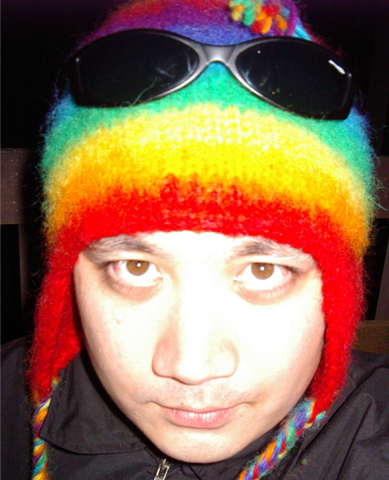
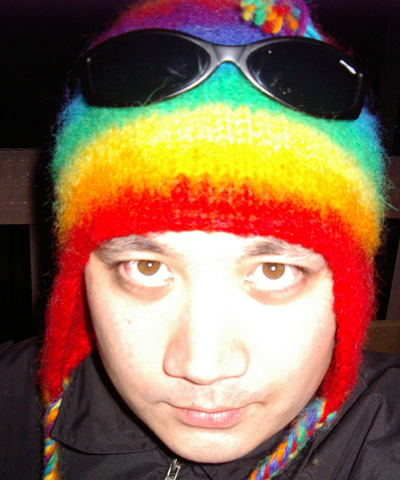
UPdated with cover graphic

diff --git a/index.html b/index.html
@@ -6,194 +6,206 @@ title:    Identity Brief
 
 <div class="grid_10  push_1" id="">
 	<ul id="top-flip">
-	  {% assign index_class = 'one' %}
-	  {% assign description = 'Fusce dapibus, tellus ac cursus commodo, tortor mauris condimentum nibh, ut fermentum massa justo sit amet risus. Fusce dapibus, tellus ac cursus commodo, tortor mauris condimentum nibh, ut fermentum massa justo sit amet risus. Donec ullamcorper nulla non metus auctor fringilla. Aenean lacinia bibendum nulla sed consectetur. ' %}		
+		{% assign index_class = "cover" %}
+	  {% assign description = "cover" %}		
+	  {% include slice.html %}
+		
+	  {% assign index_class = "one" %}
+	  {% assign description = "Self Portrait, Reservoir (2011)" %}		
 	  {% include slice.html %}
 
-	  {% assign index_class = 'two' %}
-	  {% assign description = 'Donec sed odio dui. Nullam id dolor id nibh ultricies vehicula ut id elit. Sed posuere consectetur est at lobortis. Aenean lacinia bibendum nulla sed consectetur. Sed posuere consectetur est at lobortis. Sed posuere consectetur est at lobortis. ' %}		
+	  {% assign index_class = "two" %}
+	  {% assign description = "Self Portrait, Docklands (2010) " %}		
 	  {% include slice.html %}
 
-	  {% assign index_class = 'three' %}
-	  {% assign description = 'Lorem ipsum dolor sit amet, consectetur adipiscing elit. Morbi leo risus, porta ac consectetur ac, vestibulum at eros. Nulla vitae elit libero, a pharetra augue. Cum sociis natoque penatibus et magnis dis parturient montes, nascetur ridiculus mus. ' %}		
+	  {% assign index_class = "three" %}
+	  {% assign description = "Lorem ipsum dolor sit amet, consectetur adipiscing elit. Morbi leo risus, porta ac consectetur ac, vestibulum at eros. Nulla vitae elit libero, a pharetra augue. Cum sociis natoque penatibus et magnis dis parturient montes, nascetur ridiculus mus." %}		
 	  {% include slice.html %}
-	  {% assign index_class = 'four' %}
-	  {% assign description = 'Fusce dapibus, tellus ac cursus commodo, tortor mauris condimentum nibh, ut fermentum massa justo sit amet risus. Fusce dapibus, tellus ac cursus commodo, tortor mauris condimentum nibh, ut fermentum massa justo sit amet risus. Donec ullamcorper nulla non metus auctor fringilla. Aenean lacinia bibendum nulla sed consectetur. ' %}		
-	  {% include slice.html %}
-
-	  {% assign index_class = 'five' %}
-	  {% assign description = 'Donec sed odio dui. Nullam id dolor id nibh ultricies vehicula ut id elit. Sed posuere consectetur est at lobortis. Aenean lacinia bibendum nulla sed consectetur. Sed posuere consectetur est at lobortis. Sed posuere consectetur est at lobortis. ' %}		
+	  {% assign index_class = "four" %}
+	  {% assign description = "Fusce dapibus, tellus ac cursus commodo, tortor mauris condimentum nibh, ut fermentum massa justo sit ullamcorper nulla non metus auctor fringilla. Aenean lacinia bibendum nulla sed consectetur. " %}		
 	  {% include slice.html %}
 
-	  {% assign index_class = 'six' %}
-	  {% assign description = 'Lorem ipsum dolor sit amet, consectetur adipiscing elit. Morbi leo risus, porta ac consectetur ac, vestibulum at eros. Nulla vitae elit libero, a pharetra augue. Cum sociis natoque penatibus et magnis dis parturient montes, nascetur ridiculus mus. ' %}		
+	  {% assign index_class = "five" %}
+	  {% assign description = "Donec sed odio dui. Nullam id dolor id nibh ultricies vehicula ut id elit. Sed posuere consectetur est at lobortis. " %}		
+	  {% include slice.html %}
+
+	  {% assign index_class = "six" %}
+	  {% assign description = "Lorem ipsum dolor sit amet, consectetur adipiscing elit. Morbi leo risus, porta ac consectetur ac, vestibulum at eros. Nulla vitae elit libero, a pharetra augue. Cum sociis natoque penatibus et magnis dis parturient montes, nascetur ridiculus mus. " %}		
 	  {% include slice.html %}	
-	  {% assign index_class = 'seven' %}
-	  {% assign description = 'Fusce dapibus, tellus ac cursus commodo, tortor mauris condimentum nibh, ut fermentum massa justo sit amet risus. Fusce dapibus, tellus ac cursus commodo, tortor mauris condimentum nibh, ut fermentum massa justo sit amet risus. Donec ullamcorper nulla non metus auctor fringilla. Aenean lacinia bibendum nulla sed consectetur. ' %}		
+	  {% assign index_class = "seven" %}
+	  {% assign description = "Fusce dapibus, tellus ac cursus commodo, tortor mauris condimentum nibh, ut fermentum massa justo sit ullamcorper nulla non metus auctor fringilla. Aenean lacinia bibendum nulla sed consectetur. " %}		
 	  {% include slice.html %}
 
-	  {% assign index_class = 'eight' %}
-	  {% assign description = 'Donec sed odio dui. Nullam id dolor id nibh ultricies vehicula ut id elit. Sed posuere consectetur est at lobortis. Aenean lacinia bibendum nulla sed consectetur. Sed posuere consectetur est at lobortis. Sed posuere consectetur est at lobortis. ' %}		
+	  {% assign index_class = "eight" %}
+	  {% assign description = "Donec sed odio dui. Nullam id dolor id nibh ultricies vehicula ut id elit. Sed posuere consectetur est at lobortis. " %}		
 	  {% include slice.html %}
 
-	  {% assign index_class = 'nine' %}
-	  {% assign description = 'Lorem ipsum dolor sit amet, consectetur adipiscing elit. Morbi leo risus, porta ac consectetur ac, vestibulum at eros. Nulla vitae elit libero, a pharetra augue. Cum sociis natoque penatibus et magnis dis parturient montes, nascetur ridiculus mus. ' %}		
+	  {% assign index_class = "nine" %}
+	  {% assign description = "Lorem ipsum dolor sit amet, consectetur adipiscing elit. Morbi leo risus, porta ac consectetur ac, ridiculus mus. " %}		
 	  {% include slice.html %}
-	  {% assign index_class = 'ten' %}
-	  {% assign description = 'Fusce dapibus, tellus ac cursus commodo, tortor mauris condimentum nibh, ut fermentum massa justo sit amet risus. Fusce dapibus, tellus ac cursus commodo, tortor mauris condimentum nibh, ut fermentum massa justo sit amet risus. Donec ullamcorper nulla non metus auctor fringilla. Aenean lacinia bibendum nulla sed consectetur. ' %}		
-	  {% include slice.html %}
-
-	  {% assign index_class = 'eleven' %}
-	  {% assign description = 'Donec sed odio dui. Nullam id dolor id nibh ultricies vehicula ut id elit. Sed posuere consectetur est at lobortis. Aenean lacinia bibendum nulla sed consectetur. Sed posuere consectetur est at lobortis. Sed posuere consectetur est at lobortis. ' %}		
+	  {% assign index_class = "ten" %}
+	  {% assign description = "Fusce dapibus, tellus ac cursus commodo, tortor mauris condimentum nibh, ut fermentum massa justo sit ullamcorper nulla non metus auctor fringilla. Aenean lacinia bibendum nulla sed consectetur. " %}		
 	  {% include slice.html %}
 
-	  {% assign index_class = 'twelve' %}
-	  {% assign description = 'Lorem ipsum dolor sit amet, consectetur adipiscing elit. Morbi leo risus, porta ac consectetur ac, vestibulum at eros. Nulla vitae elit libero, a pharetra augue. Cum sociis natoque penatibus et magnis dis parturient montes, nascetur ridiculus mus. ' %}		
-	  {% include slice.html %}
-	  {% assign index_class = 'thirteen' %}
-	  {% assign description = 'Fusce dapibus, tellus ac cursus commodo, tortor mauris condimentum nibh, ut fermentum massa justo sit amet risus. Fusce dapibus, tellus ac cursus commodo, tortor mauris condimentum nibh, ut fermentum massa justo sit amet risus. Donec ullamcorper nulla non metus auctor fringilla. Aenean lacinia bibendum nulla sed consectetur. ' %}		
+	  {% assign index_class = "eleven" %}
+	  {% assign description = "Donec sed odio dui. Nullam id dolor id nibh ultricies vehicula ut id elit. Sed posuere consectetur est at lobortis. Aenean lacinia bibendum nulla sed consectetur. Sed posuere consectetur est at lobortis. Sed posuere consectetur est at lobortis. " %}		
 	  {% include slice.html %}
 
-	  {% assign index_class = 'fourteen' %}
-	  {% assign description = 'Donec sed odio dui. Nullam id dolor id nibh ultricies vehicula ut id elit. Sed posuere consectetur est at lobortis. Aenean lacinia bibendum nulla sed consectetur. Sed posuere consectetur est at lobortis. Sed posuere consectetur est at lobortis. ' %}		
+	  {% assign index_class = "twelve" %}
+	  {% assign description = "Lorem ipsum dolor sit amet, consectetur adipiscing elit. Morbi leo risus, porta ac consectetur ac, vestibulum at eros. Nulla vitae elit libero, a pharetra augue. Cum sociis natoque penatibus et magnis dis parturient montes, nascetur ridiculus mus. " %}		
+	  {% include slice.html %}
+	  {% assign index_class = "thirteen" %}
+	  {% assign description = "Fusce dapibus, tellus ac cursus commodo, tortor mauris condimentum nibh, ut fermentum massa justo sit ullamcorper nulla non metus auctor fringilla. Aenean lacinia bibendum nulla sed consectetur. " %}		
 	  {% include slice.html %}
 
-	  {% assign index_class = 'fifteen' %}
-	  {% assign description = 'Lorem ipsum dolor sit amet, consectetur adipiscing elit. Morbi leo risus, porta ac consectetur ac, vestibulum at eros. Nulla vitae elit libero, a pharetra augue. Cum sociis natoque penatibus et magnis dis parturient montes, nascetur ridiculus mus. ' %}		
+	  {% assign index_class = "fourteen" %}
+	  {% assign description = "Donec sed odio dui. Nullam id dolor id nibh ultricies vehicula ut id elit. Sed posuere consectetur est at lobortis. Aenean lacinia bibendum nulla sed consectetur. Sed posuere consectetur est at lobortis. Sed posuere consectetur est at lobortis. " %}		
+	  {% include slice.html %}
+
+	  {% assign index_class = "fifteen" %}
+	  {% assign description = "Lorem ipsum dolor sit amet, consectetur adipiscing elit. Morbi leo risus, porta ac consectetur ac, ridiculus mus. " %}		
 	  {% include slice.html %}	
 	
-	  {% assign index_class = 'sixteen' %}
-	  {% assign description = 'Lorem ipsum dolor sit amet, consectetur adipiscing elit. Morbi leo risus, porta ac consectetur ac, vestibulum at eros. Nulla vitae elit libero, a pharetra augue. Cum sociis natoque penatibus et magnis dis parturient montes, nascetur ridiculus mus. ' %}		
+	  {% assign index_class = "sixteen" %}
+	  {% assign description = "Lorem ipsum dolor sit amet, consectetur adipiscing elit. Morbi leo risus, porta ac consectetur ac, vestibulum at eros. Nulla vitae elit libero, a pharetra augue. Cum sociis natoque penatibus et magnis dis parturient montes, nascetur ridiculus mus. " %}		
 	  {% include slice.html %}	
 	</ul>
 	
 	<ul id="middle-flip">
-	  {% assign index_class = 'one' %}
-	  {% assign description = 'Praesent commodo cursus magna, vel scelerisque nisl consectetur et. Nullam quis risus eget urna mollis ornare vel eu leo. Cras justo odio, dapibus ac facilisis in, egestas eget quam. Nulla vitae elit libero, a pharetra augue.' %}		
+		{% assign index_class = "cover" %}
+	  {% assign description = "cover" %}				
+	  {% include slice.html %}
+			
+	  {% assign index_class = "one" %}
+	  {% assign description = "One of a collection of photos I took to use for a new online avatar—despite a life online, the first time I'd ever used an actual image of myself rather than an illustration." %}		
 	  {% include slice.html %}
 
-	  {% assign index_class = 'two' %}
-	  {% assign description = 'Vivamus sagittis lacus vel augue laoreet rutrum faucibus dolor auctor. Integer posuere erat a ante venenatis dapibus posuere velit aliquet. Duis mollis, est non commodo luctus, nisi erat porttitor ligula, eget lacinia odio sem nec elit. Morbi leo risus, porta ac consectetur ac, vestibulum at eros. Nullam quis risus eget urna mollis ornare vel eu leo. Sed posuere consectetur est at lobortis.' %}		
+	  {% assign index_class = "two" %}
+	  {% assign description = "Vivamus sagittis lacus vel augue laoreet rutrum faucibus dolor auctor. Integer posuere erat a ante consectetur est at lobortis." %}		
 	  {% include slice.html %}
 
-	  {% assign index_class = 'three' %}
-	  {% assign description = 'Morbi leo risus, porta ac consectetur ac, vestibulum at eros. Aenean lacinia bibendum nulla sed consectetur. Curabitur blandit tempus porttitor. Praesent commodo cursus magna, vel scelerisque nisl consectetur et.' %}		
+	  {% assign index_class = "three" %}
+	  {% assign description = "Morbi leo risus, porta ac consectetur ac, vestibulum at eros. Aenean lacinia bibendum nulla sed consectetur. Curabitur blandit tempus porttitor. Praesent commodo cursus magna, vel scelerisque nisl consectetur et." %}		
 	  {% include slice.html %}		
-	  {% assign index_class = 'four' %}
-	  {% assign description = 'Praesent commodo cursus magna, vel scelerisque nisl consectetur et. Nullam quis risus eget urna mollis ornare vel eu leo. Cras justo odio, dapibus ac facilisis in, egestas eget quam. Nulla vitae elit libero, a pharetra augue.' %}		
+	  {% assign index_class = "four" %}
+	  {% assign description = "Praesent commodo cursus magna, vel scelerisque nisl consectetur et. Nullam quis risus eget urna mollis ornare vel eu leo. Cras justo odio, dapibus ac facilisis in, egestas eget quam. Nulla vitae elit libero, a pharetra augue." %}		
 	  {% include slice.html %}
 
-	  {% assign index_class = 'five' %}
-	  {% assign description = 'Vivamus sagittis lacus vel augue laoreet rutrum faucibus dolor auctor. Integer posuere erat a ante venenatis dapibus posuere velit aliquet. Duis mollis, est non commodo luctus, nisi erat porttitor ligula, eget lacinia odio sem nec elit. Morbi leo risus, porta ac consectetur ac, vestibulum at eros. Nullam quis risus eget urna mollis ornare vel eu leo. Sed posuere consectetur est at lobortis.' %}		
+	  {% assign index_class = "five" %}
+	  {% assign description = "Vivamus sagittis lacus vel augue laoreet rutrum faucibus dolor auctor. Integer posuere erat a ante consectetur est at lobortis." %}		
 	  {% include slice.html %}
 
-	  {% assign index_class = 'six' %}
-	  {% assign description = 'Morbi leo risus, porta ac consectetur ac, vestibulum at eros. Aenean lacinia bibendum nulla sed consectetur. Curabitur blandit tempus porttitor. Praesent commodo cursus magna, vel scelerisque nisl consectetur et.' %}		
+	  {% assign index_class = "six" %}
+	  {% assign description = "Morbi leo risus, porta ac consectetur ac, vestibulum at eros. Aenean lacinia bibendum nulla sed consectetur. Curabitur blandit tempus porttitor. Praesent commodo cursus magna, vel scelerisque nisl consectetur et." %}		
 	  {% include slice.html %}
 	
-	  {% assign index_class = 'seven' %}
-	  {% assign description = 'Praesent commodo cursus magna, vel scelerisque nisl consectetur et. Nullam quis risus eget urna mollis ornare vel eu leo. Cras justo odio, dapibus ac facilisis in, egestas eget quam. Nulla vitae elit libero, a pharetra augue.' %}		
+	  {% assign index_class = "seven" %}
+	  {% assign description = "Praesent commodo cursus magna, vel scelerisque nisl consectetur et. Nullam quis risus eget urna mollis ornare vel eu leo. Cras justo odio, dapibus ac facilisis in, egestas eget quam. Nulla vitae elit libero, a pharetra augue." %}		
 	  {% include slice.html %}
 
-	  {% assign index_class = 'eight' %}
-	  {% assign description = 'Vivamus sagittis lacus vel augue laoreet rutrum faucibus dolor auctor. Integer posuere erat a ante venenatis dapibus posuere velit aliquet. Duis mollis, est non commodo luctus, nisi erat porttitor ligula, eget lacinia odio sem nec elit. Morbi leo risus, porta ac consectetur ac, vestibulum at eros. Nullam quis risus eget urna mollis ornare vel eu leo. Sed posuere consectetur est at lobortis.' %}		
+	  {% assign index_class = "eight" %}
+	  {% assign description = "Vivamus sagittis lacus vel augue laoreet rutrum faucibus dolor auctor. Integer posuere erat a ante consectetur est at lobortis." %}		
 	  {% include slice.html %}
 
-	  {% assign index_class = 'nine' %}
-	  {% assign description = 'Morbi leo risus, porta ac consectetur ac, vestibulum at eros. Aenean lacinia bibendum nulla sed consectetur. Curabitur blandit tempus porttitor. Praesent commodo cursus magna, vel scelerisque nisl consectetur et.' %}		
+	  {% assign index_class = "nine" %}
+	  {% assign description = "Morbi leo risus, porta ac consectetur ac, vestibulum at eros. Aenean lacinia bibendum nulla sed consectetur. Curabitur blandit tempus porttitor. Praesent commodo cursus magna, vel scelerisque nisl consectetur et." %}		
 	  {% include slice.html %}
-	  {% assign index_class = 'ten' %}
-	  {% assign description = 'Praesent commodo cursus magna, vel scelerisque nisl consectetur et. Nullam quis risus eget urna mollis ornare vel eu leo. Cras justo odio, dapibus ac facilisis in, egestas eget quam. Nulla vitae elit libero, a pharetra augue.' %}		
-	  {% include slice.html %}
-
-	  {% assign index_class = 'eleven' %}
-	  {% assign description = 'Vivamus sagittis lacus vel augue laoreet rutrum faucibus dolor auctor. Integer posuere erat a ante venenatis dapibus posuere velit aliquet. Duis mollis, est non commodo luctus, nisi erat porttitor ligula, eget lacinia odio sem nec elit. Morbi leo risus, porta ac consectetur ac, vestibulum at eros. Nullam quis risus eget urna mollis ornare vel eu leo. Sed posuere consectetur est at lobortis.' %}		
+	  {% assign index_class = "ten" %}
+	  {% assign description = "Praesent commodo cursus magna, vel scelerisque nisl consectetur et. Nullam quis risus eget urna mollis ornare vel eu leo. Cras justo odio, dapibus ac facilisis in, egestas eget quam. Nulla vitae elit libero, a pharetra augue." %}		
 	  {% include slice.html %}
 
-	  {% assign index_class = 'twelve' %}
-	  {% assign description = 'Morbi leo risus, porta ac consectetur ac, vestibulum at eros. Aenean lacinia bibendum nulla sed consectetur. Curabitur blandit tempus porttitor. Praesent commodo cursus magna, vel scelerisque nisl consectetur et.' %}		
+	  {% assign index_class = "eleven" %}
+	  {% assign description = "Vivamus sagittis lacus vel augue laoreet rutrum faucibus dolor auctor. Integer posuere erat a ante consectetur est at lobortis." %}		
+	  {% include slice.html %}
+
+	  {% assign index_class = "twelve" %}
+	  {% assign description = "Morbi leo risus, porta ac consectetur ac, vestibulum at eros. Aenean lacinia bibendum nulla sed consectetur. Curabitur blandit tempus porttitor. Praesent commodo cursus magna, vel scelerisque nisl consectetur et." %}		
 	  {% include slice.html %}
 	
-	  {% assign index_class = 'thirteen' %}
-	  {% assign description = 'Praesent commodo cursus magna, vel scelerisque nisl consectetur et. Nullam quis risus eget urna mollis ornare vel eu leo. Cras justo odio, dapibus ac facilisis in, egestas eget quam. Nulla vitae elit libero, a pharetra augue.' %}		
+	  {% assign index_class = "thirteen" %}
+	  {% assign description = "Praesent commodo cursus magna, vel scelerisque nisl consectetur et. Nullam quis risus eget urna mollis ornare vel eu leo. Cras justo odio, dapibus ac facilisis in, egestas eget quam. Nulla vitae elit libero, a pharetra augue." %}		
 	  {% include slice.html %}
 
-	  {% assign index_class = 'fourteen' %}
-	  {% assign description = 'Vivamus sagittis lacus vel augue laoreet rutrum faucibus dolor auctor. Integer posuere erat a ante venenatis dapibus posuere velit aliquet. Duis mollis, est non commodo luctus, nisi erat porttitor ligula, eget lacinia odio sem nec elit. Morbi leo risus, porta ac consectetur ac, vestibulum at eros. Nullam quis risus eget urna mollis ornare vel eu leo. Sed posuere consectetur est at lobortis.' %}		
+	  {% assign index_class = "fourteen" %}
+	  {% assign description = "Vivamus sagittis lacus vel augue laoreet rutrum faucibus dolor auctor. Integer posuere erat a ante consectetur est at lobortis." %}		
 	  {% include slice.html %}
 
-	  {% assign index_class = 'fifteen' %}
-	  {% assign description = 'Morbi leo risus, porta ac consectetur ac, vestibulum at eros. Aenean lacinia bibendum nulla sed consectetur. Curabitur blandit tempus porttitor. Praesent commodo cursus magna, vel scelerisque nisl consectetur et.' %}		
+	  {% assign index_class = "fifteen" %}
+	  {% assign description = "Morbi leo risus, porta ac consectetur ac, vestibulum at eros. Aenean lacinia bibendum nulla sed consectetur. Curabitur blandit tempus porttitor. Praesent commodo cursus magna, vel scelerisque nisl consectetur et." %}		
 	  {% include slice.html %}		
 
-	  {% assign index_class = 'sixteen' %}
-	  {% assign description = 'Morbi leo risus, porta ac consectetur ac, vestibulum at eros. Aenean lacinia bibendum nulla sed consectetur. Curabitur blandit tempus porttitor. Praesent commodo cursus magna, vel scelerisque nisl consectetur et.' %}		
+	  {% assign index_class = "sixteen" %}
+	  {% assign description = "Morbi leo risus, porta ac consectetur ac, vestibulum at eros. Aenean lacinia bibendum nulla sed consectetur. Curabitur blandit tempus porttitor. Praesent commodo cursus magna, vel scelerisque nisl consectetur et." %}		
 	  {% include slice.html %}		
 	
 	</ul>
 	<ul id="bottom-flip">
-	  {% assign index_class = 'one' %}
-	  {% assign description = 'Praesent commodo cursus magna, vel scelerisque nisl consectetur et. Donec sed odio dui. Duis mollis, est non commodo luctus, nisi erat porttitor ligula, eget lacinia odio sem nec elit. Etiam porta sem malesuada magna mollis euismod. Sed posuere consectetur est at lobortis.' %}		
+		{% assign index_class = "cover" %}
+	  {% assign description = "cover" %}			
+	  {% include slice.html %}
+		
+	  {% assign index_class = "one" %}
+	  {% assign description = "Praesent commodo cursus magna, vel scelerisque nisl consectetur et. Donec sed odio dui. Duis mollis, est posuere consectetur est at lobortis." %}		
 	  {% include slice.html %}
 
-	  {% assign index_class = 'two' %}
-	  {% assign description = 'Maecenas sed diam eget risus varius blandit sit amet non magna. Donec ullamcorper nulla non metus auctor fringilla. Aenean lacinia bibendum nulla sed consectetur. Cum sociis natoque penatibus et magnis dis parturient montes, nascetur ridiculus mus.' %}		
+	  {% assign index_class = "two" %}
+	  {% assign description = "Maecenas sed diam eget risus varius blandit sit amet non magna. Donec ullamcorper nulla non metus auctor ridiculus mus." %}		
 	  {% include slice.html %}
 
-	  {% assign index_class = 'three' %}
-	  {% assign description = 'Duis mollis, est non commodo luctus, nisi erat porttitor ligula, eget lacinia odio sem nec elit. Nullam quis risus eget urna mollis ornare vel eu leo.' %}		
+	  {% assign index_class = "three" %}
+	  {% assign description = "Duis mollis, est non commodo luctus, nisi erat porttitor ligula, eget lacinia odio sem nec elit. Nullam quis risus eget urna mollis ornare vel eu leo." %}		
 	  {% include slice.html %}
 	
-	  {% assign index_class = 'four' %}
-	  {% assign description = 'Morbi leo risus, porta ac consectetur ac, vestibulum at eros. Aenean lacinia bibendum nulla sed consectetur. Curabitur blandit tempus porttitor. Praesent commodo cursus magna, vel scelerisque nisl consectetur et.' %}		
+	  {% assign index_class = "four" %}
+	  {% assign description = "Morbi leo risus, porta ac consectetur ac, vestibulum at eros. Aenean lacinia bibendum nulla sed consectetur. Curabitur blandit tempus porttitor. Praesent commodo cursus magna, vel scelerisque nisl consectetur et." %}		
 	  {% include slice.html %}		
 	
-	  {% assign index_class = 'five' %}
-	  {% assign description = 'Praesent commodo cursus magna, vel scelerisque nisl consectetur et. Donec sed odio dui. Duis mollis, est non commodo luctus, nisi erat porttitor ligula, eget lacinia odio sem nec elit. Etiam porta sem malesuada magna mollis euismod. Sed posuere consectetur est at lobortis.' %}		
+	  {% assign index_class = "five" %}
+	  {% assign description = "Praesent commodo cursus magna, vel scelerisque nisl consectetur et. Donec sed odio dui. Duis mollis, est posuere consectetur est at lobortis." %}		
 	  {% include slice.html %}
 
-	  {% assign index_class = 'six' %}
-	  {% assign description = 'Maecenas sed diam eget risus varius blandit sit amet non magna. Donec ullamcorper nulla non metus auctor fringilla. Aenean lacinia bibendum nulla sed consectetur. Cum sociis natoque penatibus et magnis dis parturient montes, nascetur ridiculus mus.' %}		
+	  {% assign index_class = "six" %}
+	  {% assign description = "Maecenas sed diam eget risus varius blandit sit amet non magna. Donec ullamcorper nulla non metus auctor ridiculus mus." %}		
 	  {% include slice.html %}
 
-	  {% assign index_class = 'seven' %}
-	  {% assign description = 'Duis mollis, est non commodo luctus, nisi erat porttitor ligula, eget lacinia odio sem nec elit. Nullam quis risus eget urna mollis ornare vel eu leo.' %}		
+	  {% assign index_class = "seven" %}
+	  {% assign description = "Duis mollis, est non commodo luctus, nisi erat porttitor ligula, eget lacinia odio sem nec elit. Nullam quis risus eget urna mollis ornare vel eu leo." %}		
 	  {% include slice.html %}
 	
-	  {% assign index_class = 'eight' %}
-	  {% assign description = 'Morbi leo risus, porta ac consectetur ac, vestibulum at eros. Aenean lacinia bibendum nulla sed consectetur. Curabitur blandit tempus porttitor. Praesent commodo cursus magna, vel scelerisque nisl consectetur et.' %}		
+	  {% assign index_class = "eight" %}
+	  {% assign description = "Morbi leo risus, porta ac consectetur ac, vestibulum at eros. Aenean lacinia bibendum nulla sed consectetur. Curabitur blandit tempus porttitor. Praesent commodo cursus magna, vel scelerisque nisl consectetur et." %}		
 	  {% include slice.html %}
 	
-	  {% assign index_class = 'nine' %}
-	  {% assign description = 'Praesent commodo cursus magna, vel scelerisque nisl consectetur et. Donec sed odio dui. Duis mollis, est non commodo luctus, nisi erat porttitor ligula, eget lacinia odio sem nec elit. Etiam porta sem malesuada magna mollis euismod. Sed posuere consectetur est at lobortis.' %}		
+	  {% assign index_class = "nine" %}
+	  {% assign description = "Praesent commodo cursus magna, vel scelerisque nisl consectetur et. Donec sed odio dui. Duis mollis, est posuere consectetur est at lobortis." %}		
 	  {% include slice.html %}
 
-	  {% assign index_class = 'ten' %}
-	  {% assign description = 'Duis mollis, est non commodo luctus, nisi erat porttitor ligula, eget lacinia odio sem nec elit. Nullam quis risus eget urna mollis ornare vel eu leo.' %}		
+	  {% assign index_class = "ten" %}
+	  {% assign description = "Duis mollis, est non commodo luctus, nisi erat porttitor ligula, eget lacinia odio sem nec elit. Nullam quis risus eget urna mollis ornare vel eu leo." %}		
 	  {% include slice.html %}
 	
-	  {% assign index_class = 'eleven' %}
-	  {% assign description = 'Morbi leo risus, porta ac consectetur ac, vestibulum at eros. Aenean lacinia bibendum nulla sed consectetur. Curabitur blandit tempus porttitor. Praesent commodo cursus magna, vel scelerisque nisl consectetur et.' %}		
+	  {% assign index_class = "eleven" %}
+	  {% assign description = "Morbi leo risus, porta ac consectetur ac, vestibulum at eros. Aenean lacinia bibendum nulla sed consectetur. Curabitur blandit tempus porttitor. Praesent commodo cursus magna, vel scelerisque nisl consectetur et." %}		
 	  {% include slice.html %}
 	
-	  {% assign index_class = 'twelve' %}
-	  {% assign description = 'Praesent commodo cursus magna, vel scelerisque nisl consectetur et. Donec sed odio dui. Duis mollis, est non commodo luctus, nisi erat porttitor ligula, eget lacinia odio sem nec elit. Etiam porta sem malesuada magna mollis euismod. Sed posuere consectetur est at lobortis.' %}		
+	  {% assign index_class = "twelve" %}
+	  {% assign description = "Praesent commodo cursus magna, vel scelerisque nisl consectetur et. Donec sed odio dui. Duis mollis, est posuere consectetur est at lobortis." %}		
 	  {% include slice.html %}
 
-	  {% assign index_class = 'thirteen' %}
-	  {% assign description = 'Maecenas sed diam eget risus varius blandit sit amet non magna. Donec ullamcorper nulla non metus auctor fringilla. Aenean lacinia bibendum nulla sed consectetur. Cum sociis natoque penatibus et magnis dis parturient montes, nascetur ridiculus mus.' %}		
+	  {% assign index_class = "thirteen" %}
+	  {% assign description = "Maecenas sed diam eget risus varius blandit sit amet non magna. Donec ullamcorper nulla non metus auctor fringilla. Aenean lacinia bibendum nulla sed consectetur. Cum sociis natoque penatibus et magnis dis parturient montes, nascetur ridiculus mus." %}		
 	  {% include slice.html %}
 
-	  {% assign index_class = 'fourteen' %}
-	  {% assign description = 'Duis mollis, est non commodo luctus, nisi erat porttitor ligula, eget lacinia odio sem nec elit. Nullam quis risus eget urna mollis ornare vel eu leo.' %}		
+	  {% assign index_class = "fourteen" %}
+	  {% assign description = "Duis mollis, est non commodo luctus, nisi erat porttitor ligula, eget lacinia odio sem nec elit. Nullam quis risus eget urna mollis ornare vel eu leo." %}		
 	  {% include slice.html %}
 	
-	  {% assign index_class = 'fifteen' %}
-	  {% assign description = 'Morbi leo risus, porta ac consectetur ac, vestibulum at eros. Aenean lacinia bibendum nulla sed consectetur. Curabitur blandit tempus porttitor. Praesent commodo cursus magna, vel scelerisque nisl consectetur et.' %}		
+	  {% assign index_class = "fifteen" %}
+	  {% assign description = "Morbi leo risus, porta ac consectetur ac, vestibulum at eros. Aenean lacinia bibendum nulla sed consectetur. Curabitur blandit tempus porttitor. Praesent commodo cursus magna, vel scelerisque nisl consectetur et." %}		
 	  {% include slice.html %}		
 	
-	  {% assign index_class = 'sixteen' %}
-	  {% assign description = 'Maecenas sed diam eget risus varius blandit sit amet non magna. Donec ullamcorper nulla non metus auctor fringilla. Aenean lacinia bibendum nulla sed consectetur. Cum sociis natoque penatibus et magnis dis parturient montes, nascetur ridiculus mus.' %}		
+	  {% assign index_class = "sixteen" %}
+	  {% assign description = "Maecenas sed diam eget risus varius blandit sit amet non magna. Donec ullamcorper nulla non metus auctor ridiculus mus." %}		
 	  {% include slice.html %}
 	
 		</li>		

diff --git a/css/site.less b/css/site.less
@@ -36,6 +36,7 @@
 @color-bg: @color-black;
 /*@color-bg: @color-color;*/
 
+@img-cover:"{{ site.css_path}}/img/identities/cover.png";
 @img-01:"{{ site.css_path}}/img/identities/id_01.png";
 @img-02:"{{ site.css_path}}/img/identities/id_02.png";
 @img-03:"{{ site.css_path}}/img/identities/id_03.png";
@@ -179,6 +180,9 @@ ul#bottom-flip, ul#middle-flip, ul#top-flip {
 			box-align: center;
 		}		
 	}
+	.cover {
+		background: url(@img-cover) no-repeat top left;
+	}
 	.one {
 		background: url(@img-01) no-repeat top left;
 	}
@@ -278,8 +282,9 @@ ul#controls {
 		width:@control-width - 40px;
 		height:@control-width;
 		display:inline-block;
-		text-align:center;
-		line-height:@control-width;
+		text-align:right;
+		padding-right:5px;
+		line-height:@control-width * 1.8;
 		margin:0;		
 		clear:both;
 		cursor:pointer;
@@ -313,7 +318,7 @@ ul#controls {
 	}
 }
 
-li.slice.one {
+li.slice.cover {
 	display:block;
 }
 

diff --git a/js/site.js b/js/site.js
@@ -23,6 +23,8 @@ var randomizerInterval = 2000;
 var randomizerRow = 1;
 var tid;
 
+var covered = true;
+
 
 $(document).ready(function () {
 	var lockControl = $('ul#controls .lock');
@@ -30,6 +32,11 @@ $(document).ready(function () {
 	var resetControl = $('ul#controls .reset');	
 	
 	var randomizerControl = $('#randomizer');	
+
+	$("body").click(function() {
+		$(".cover").fadeOut(flip_speed);
+		$("li.slice.one").fadeIn(flip_speed);		
+	});
 	
 	randomizerControl.html(RANDOM_OFF).click(function() {
 		randomizin = !randomizin;
@@ -122,6 +129,9 @@ $(document).ready(function () {
 		//hide this slice and show next
 		var $this = $(this);
 		var thisList = $this.closest('ul').attr('id');
+		if ($this.hasClass("cover")) {
+			return;
+		}
 		if (lockMode) {
 		// Cascading locked transitions			
 				// thisList = 'top-flip';
